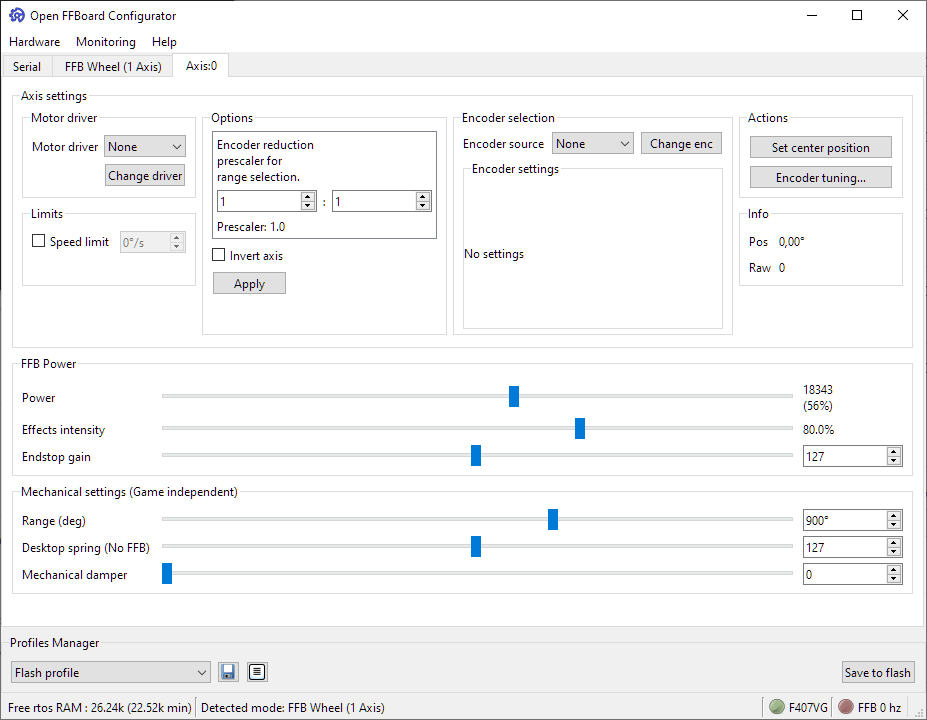
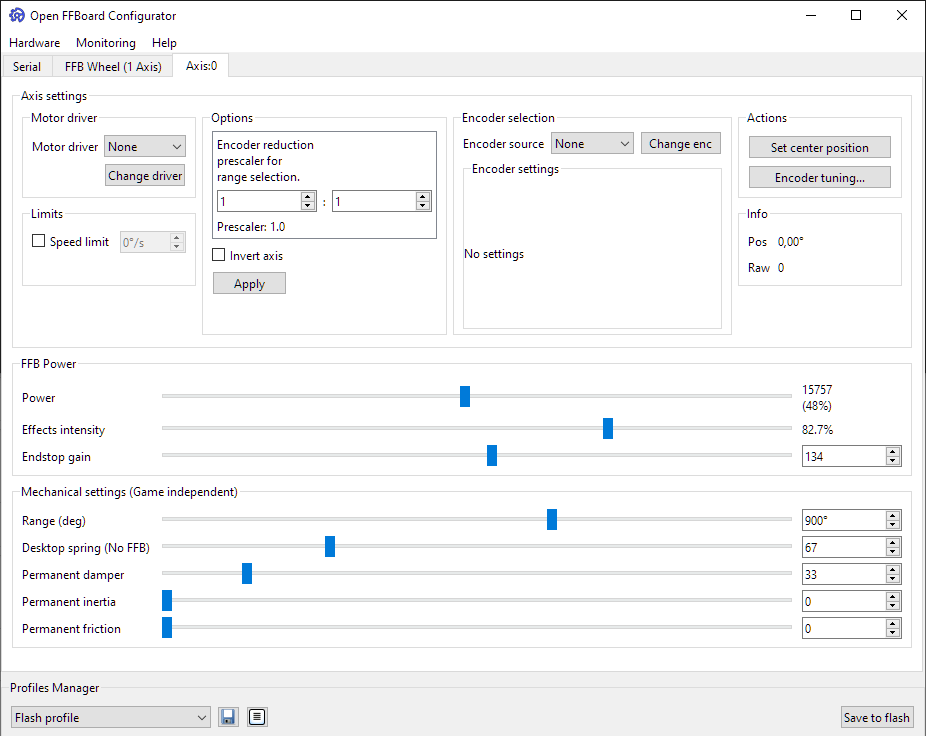
Update axis tab

diff --git a/Configurator-guide.md b/Configurator-guide.md
@@ -100,9 +100,10 @@ The endstop gain changes how stiff the virtual endstop effect feels. When set to
 This scales the output range of the gamepad axis and requires proper CPR and prescaler settings.
 The range is how far a steering wheel can move before hitting the virtual endstop. 
 
-#### Mechanical damper
+#### Permanent damper, inertia and friction
 
-This is an always active virtual damper effect making it feel heavier. It can prevent oscillations and make the system feel more stable when increased or lighter when decreased. Tune this to taste.
+Damper is an always active virtual damper effect making it feel heavier. It can prevent oscillations and make the system feel more stable when increased or lighter when decreased. Inertia also makes the wheel feel heavier but may cause more overshoot. Tune this to taste.
+Friction can be used to fine tune the feel as well but should usually not be required.
 
 #### Set center position
 
